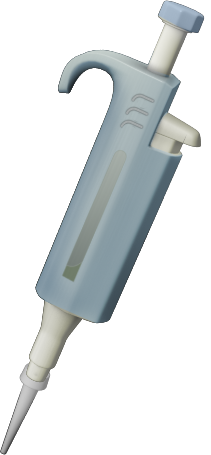
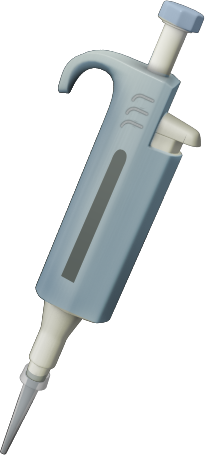
update pipette graphics to display filled tip

Changed region(s): [[0.2844, 0.3077, 0.5972, 0.6154], [0.0, 0.8, 0.2275, 1.0]]

diff --git a/app/index.html b/app/index.html
@@ -60,7 +60,9 @@
                                 top: 185 + activeViewController().pipette.hasTip() * 45,
                                 left: 15 + activeViewController().pipette.hasTip() * (-10) } },
                             css: {
-                              tip: activeViewController().pipette.hasTip(),
+                              'tip': activeViewController().pipette.hasEmptyTip(),
+                              'tip-filled': activeViewController().pipette.hasFilledTip(),
+                              'tip-filled-blood': activeViewController().pipette.hasBloodFilledTip(),
                               'press-side-button': activeViewController().pipette.pressSideButton(),
                               'press-top-button': activeViewController().pipette.pressTopButton()}">
             </div>

diff --git a/app/js/model/Pipette.ts b/app/js/model/Pipette.ts
@@ -33,6 +33,31 @@ class Pipette extends CompositeContainerModel {
         return this.hasContainerAt(0);
     }
 
+    hasEmptyTip() {
+        if (!this.hasTip())
+            return false;
+        
+        return !this.getTip().liquids()[0];
+    }
+
+    hasFilledTip() {
+        if (!this.hasTip())
+            return false;
+
+        return !this.hasEmptyTip();
+    }
+    
+    hasBloodFilledTip() {
+        if (!this.hasTip() || this.hasEmptyTip())
+            return false;
+
+        var liquidType = this.getTip().liquids()[0].type();
+        var out = liquidType === LiquidType.MOUSE_BLOOD;
+        var t1 = LiquidType.MOUSE_BLOOD;
+        debugger;
+        return liquidType === LiquidType.MOUSE_BLOOD;
+    }
+
     getTip() {
         return <TipModel>this.get(0);
     }

diff --git a/app/css/view/_base.scss b/app/css/view/_base.scss
@@ -22,11 +22,19 @@
         background-image: url(#{$img-path}/grab_pipette_tip.png);
     }
 
-    &.tip.press-side-button {
+    &.tip-filled {
+        background-image: url(#{$img-path}/grab_pipette_filled.png);
+    }
+
+    &.tip-filled-blood {
+        background-image: url(#{$img-path}/grab_pipette_blood.png);
+    }
+
+    &.press-side-button {
         background-image: url(#{$img-path}/grab_pipette_side_button.png);
     }
 
-    &.tip.press-top-button {
+    &.press-top-button {
         background-image: url(#{$img-path}/grab_pipette_top_button.png);
     }
 }
